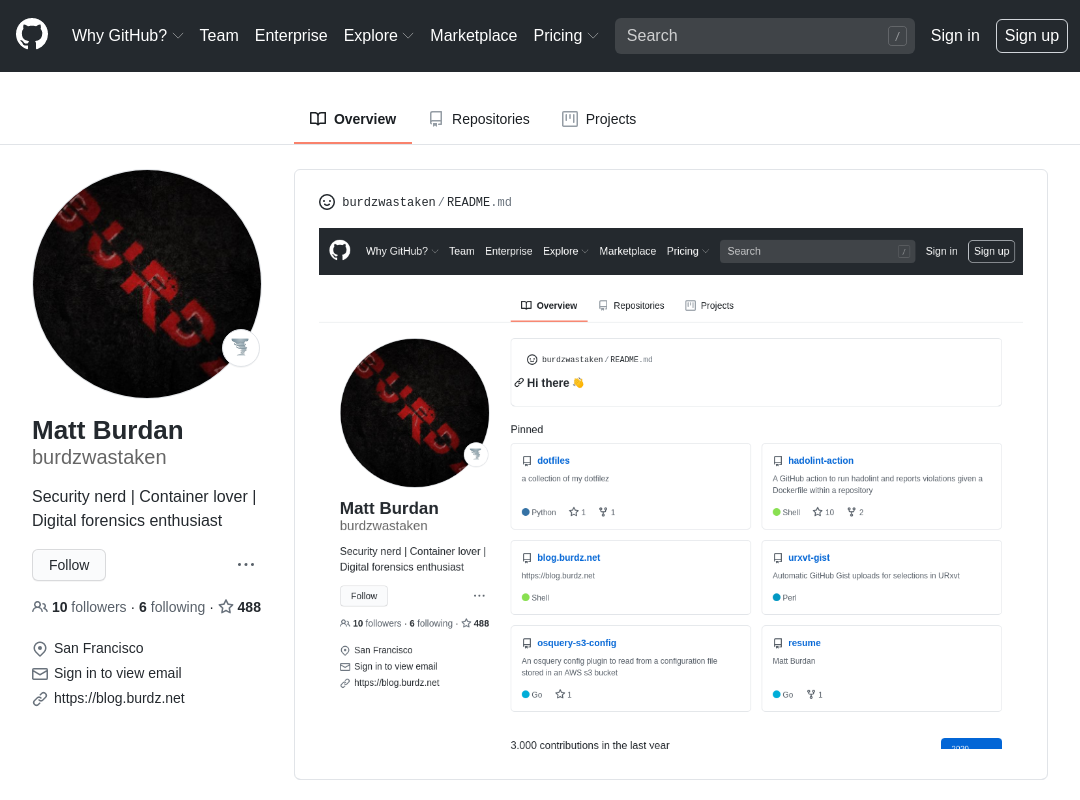
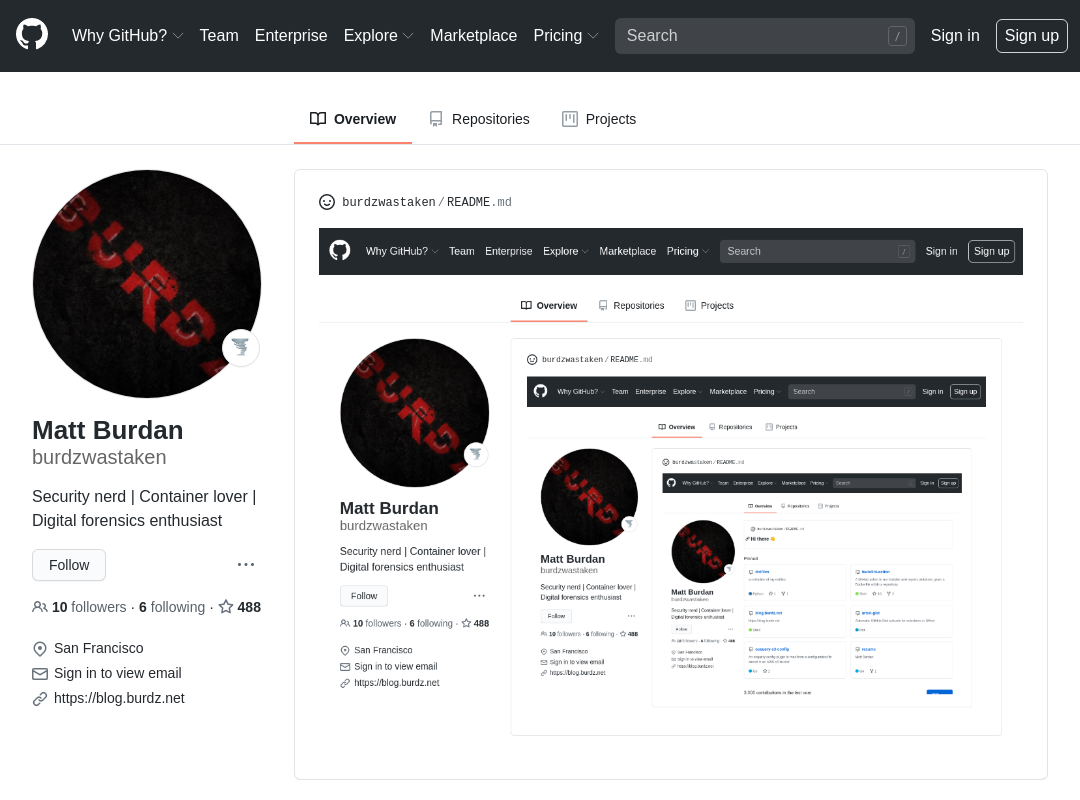
"adds new screenshot at depth 2"

diff --git a/README.md b/README.md
@@ -1,1 +1,1 @@
-![Woah!](https://github.com/burdzwastaken/burdzwastaken/blob/master/screenshot-3.png)
+![Woah!](https://github.com/burdzwastaken/burdzwastaken/blob/master/screenshot-2.png)
